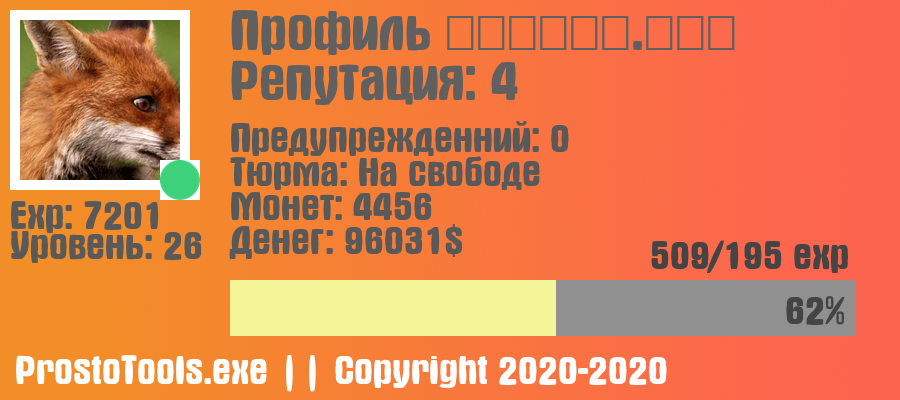
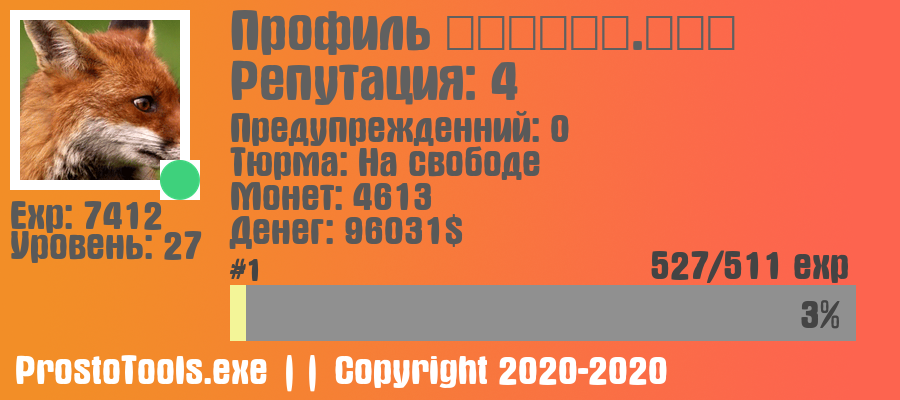
bot::: fixes

Changed region(s): [[0.1867, 0.27, 0.9644, 0.87], [0.0933, 0.51, 0.1867, 0.57]]

diff --git a/Cogs/economy.py b/Cogs/economy.py
@@ -1603,7 +1603,6 @@ class Economy(commands.Cog, name = 'Economy'):
 			return
 
 		def draw_progress(image: Image, percent: int):
-			print(percent)
 			if percent < 0:
 				return image
 
@@ -1615,11 +1614,9 @@ class Economy(commands.Cog, name = 'Economy'):
 			progress_height = 55
 
 			x0 = 230
-			y0 = 280
+			y0 = 285
 			x1 = x0 + progress_width
 			y1 = y0 + progress_height
-			print(x0, y0, x1, y1)
-			print(percent)
 
 			drawer = ImageDraw.Draw(image)
 			drawer.rectangle(xy=[x0, y0, x1, y1], fill='#f3f598')
@@ -1664,6 +1661,13 @@ class Economy(commands.Cog, name = 'Economy'):
 			'offline': 'offline',
 			'idle': 'sleep'
 		}
+		self.cursor.execute("""SELECT user_id FROM users ORDER BY exp DESC""")
+		users_rank = self.cursor.fetchall()
+		for user in users_rank:
+			if user[0] == member.id:
+				user_rank = users_rank.index(user) + 1
+				break
+
 		user_data = DB().sel_user(target = member)
 		multi = DB().sel_guild(guild=ctx.guild)['exp_multi']
 		user = str(member.name)
@@ -1699,19 +1703,21 @@ class Economy(commands.Cog, name = 'Economy'):
 
 		bigtext = ImageFont.truetype(self.FONT, size=56)
 		midletext = ImageFont.truetype(self.FONT, size=40)
+		smalltext = ImageFont.truetype(self.FONT, size=32)
 
 		idraw.text((230, 10), u'Профиль {}'.format(user), font = bigtext, fill='#606060' )
 		idraw.text((230, 60), f'Репутация: {user_reputation}', font = bigtext, fill='#606060' )
 		idraw.text((10, 200), f'Exp: {user_exp}', font = midletext, fill = colours[user_profile][0])
 		idraw.text((10, 230), f'Уровень: {user_level}', font = midletext, fill = colours[user_profile][0])
-		idraw.text((230, 123), f'Предупрежденний: {user_warns}', font = midletext, fill = colours[user_profile][0])
-		idraw.text((230, 157), f'Тюрма: {user_state_prison}', font = midletext, fill = colours[user_profile][0])
-		idraw.text((230, 191), f'Монет: {user_coins}', font = midletext, fill = colours[user_profile][0] )
-		idraw.text((230, 225), f'Денег: {user_money}$', font = midletext, fill = colours[user_profile][0])
-		idraw.rectangle((230, 280, 855, 335), fill='#909090')
+		idraw.text((230, 113), f'Предупрежденний: {user_warns}', font = midletext, fill = colours[user_profile][0])
+		idraw.text((230, 147), f'Тюрма: {user_state_prison}', font = midletext, fill = colours[user_profile][0])
+		idraw.text((230, 181), f'Монет: {user_coins}', font = midletext, fill = colours[user_profile][0] )
+		idraw.text((230, 215), f'Денег: {user_money}$', font = midletext, fill = colours[user_profile][0])
+		idraw.rectangle((230, 285, 855, 340), fill='#909090')
 		draw_progress(img, progress_bar_percent)
-		idraw.text((get_width_info_exp(round(level_exp - previus_level_exp)), 240), f'{round(level_exp - previus_level_exp)}/{round(level_exp - user_exp)} exp', font=midletext, fill='#444')
-		idraw.text((get_width_progress_bar(100 - progress_bar_percent), 295), f'{100 - progress_bar_percent}%', font=midletext, fill='#444')
+		idraw.text((get_width_info_exp(round(level_exp - previus_level_exp)), 250), f'{round(level_exp - previus_level_exp)}/{round(level_exp - user_exp)} exp', font=midletext, fill='#444')
+		idraw.text((get_width_progress_bar(100 - progress_bar_percent), 300), f'{100 - progress_bar_percent}%', font=midletext, fill='#444')
+		idraw.text((230, 258), f'#{user_rank}', font=smalltext, fill='#444')
 		idraw.text((15, 355), self.FOOTER, font = midletext)
 
 		img.save(self.SAVE)

diff --git a/Tools/template_engine.py b/Tools/template_engine.py
@@ -3,6 +3,18 @@ import math
 
 from Tools.database import DB
 
+class Attributes:
+	__slots__ = '_attrs'
+
+	def __init__(self, attrs):
+		self._attrs = list(attrs)
+
+	def __str__(self):
+		return self._attrs
+
+	def get(self, key):
+		return self._attrs[key]
+
 class Rank:
 	__slots__ = 'exp', 'lvl', 'remaining_exp', 'money', 'coins', 'bio', 'count_channels', 'reputation', 'count_messages', 'count_warns', 'level_exp'
 
@@ -18,6 +30,9 @@ class Rank:
 		self.reputation = data['reputation']
 		self.count_messages = data['messages'][1]
 		self.count_warns = len(data['warns'])
+	
+	def __str__(self):
+		return self.exp
 
 class Channel:
 	__slots__ = "id", "name", 'position', 'mention', 'created_at', 'topic'
@@ -31,12 +46,17 @@ class Channel:
 		if isinstance(data, discord.TextChannel):
 			self.mention = data.mention
 			self.topic = data.topic
+		
+	def __str__(self):
+		return self.name
 
 class VoiceState:
-	__slots__ = 'deaf', 'mute', 'self_deaf', 'self_mute', 'self_stream', 'self_video', 'afk', 'channel'
+	__slots__ = 'deaf', 'mute', 'self_deaf', 'self_mute', 'self_stream', 'self_video', 'afk', 'channel', 'state'
 
 	def __init__(self, data):
+		self.state = False
 		if data:
+			self.state = True
 			self.deaf = data.deaf
 			self.mute = data.mute
 			self.self_mute = data.self_mute
@@ -45,6 +65,9 @@ class VoiceState:
 			self.self_video = data.self_video
 			self.afk = data.afk
 			self.channel = Channel(data.channel)
+
+	def __str__(self):
+		return str(self.state)
 
 class Role:
 	__slots__ = "id", "name", 'position', 'permissions', 'color', 'created_at', 'mention'
@@ -58,6 +81,9 @@ class Role:
 		self.created_at = data.created_at
 		self.mention = data.mention
 
+	def __str__(self):
+		return self.name
+
 class User:
 	__slots__ = "id", "name", 'bot', 'avatar_url', 'tag', 'created_at', 'discriminator'
 
@@ -68,6 +94,9 @@ class User:
 		self.avatar_url = data.avatar_url
 		self.discriminator = data.discriminator
 		self.created_at = data.created_at
+
+	def __str__(self):
+		return self.name+'#'+self.discriminator
 
 class Member(User):
 	__slots__ = "id", "name", 'joined_at', 'rank', 'bot', 'nick', 'mention', 'voice', 'avatar_url', 'discrininator', 'created_at', '_member_statuses', 'status'
@@ -87,6 +116,9 @@ class Member(User):
 		self.voice = VoiceState(data.voice)
 		self.status = self._member_statuses[data.status.name]
 		self.rank = Rank(db_data)
+
+	def __str__(self):
+		return self.name+'#'+self.discriminator
 
 	def has_role(self, role: Role):
 		pass
@@ -130,6 +162,9 @@ class Guild:
 		self.member_count = data.member_count
 		self.region = data.region
 		self.region_emoji = self._region_emojis[self.region.name]
+
+	def __str__(self):
+		return self.name
 	
 	def get_channel(self, id):
 		pass
@@ -153,3 +188,6 @@ class Message:
 		self.author = Member(data.author, self.__databasedataofmember)
 		self.created_at = data.created_at
 		self.jump_url = data.jump_url
+
+	def __str__(self):
+		return self.content

diff --git a/Cogs/owner.py b/Cogs/owner.py
@@ -55,6 +55,7 @@ class Owner(commands.Cog, name = 'Owner'):
 			'channel': TemplateEngine.Channel(ctx.message.channel),
 			'bot': TemplateEngine.User(self.client.user),
 			'message': TemplateEngine.Message(ctx.message),
+			'attributes': TemplateEngine.Attributes(ctx.args),
 			'len': len,
 			'math': math,
 			'round': round,
@@ -77,6 +78,7 @@ class Owner(commands.Cog, name = 'Owner'):
 			'contains': lambda msg, word: True if word in msg.split(' ') else False,
 		}
 		result = template.render(context)
+		await ctx.send(ctx.kwargs)
 		await ctx.send(result.replace('&lt;', '<').replace('&gt;', '>').replace('&#39;', '"'))
 
 	@commands.command()
